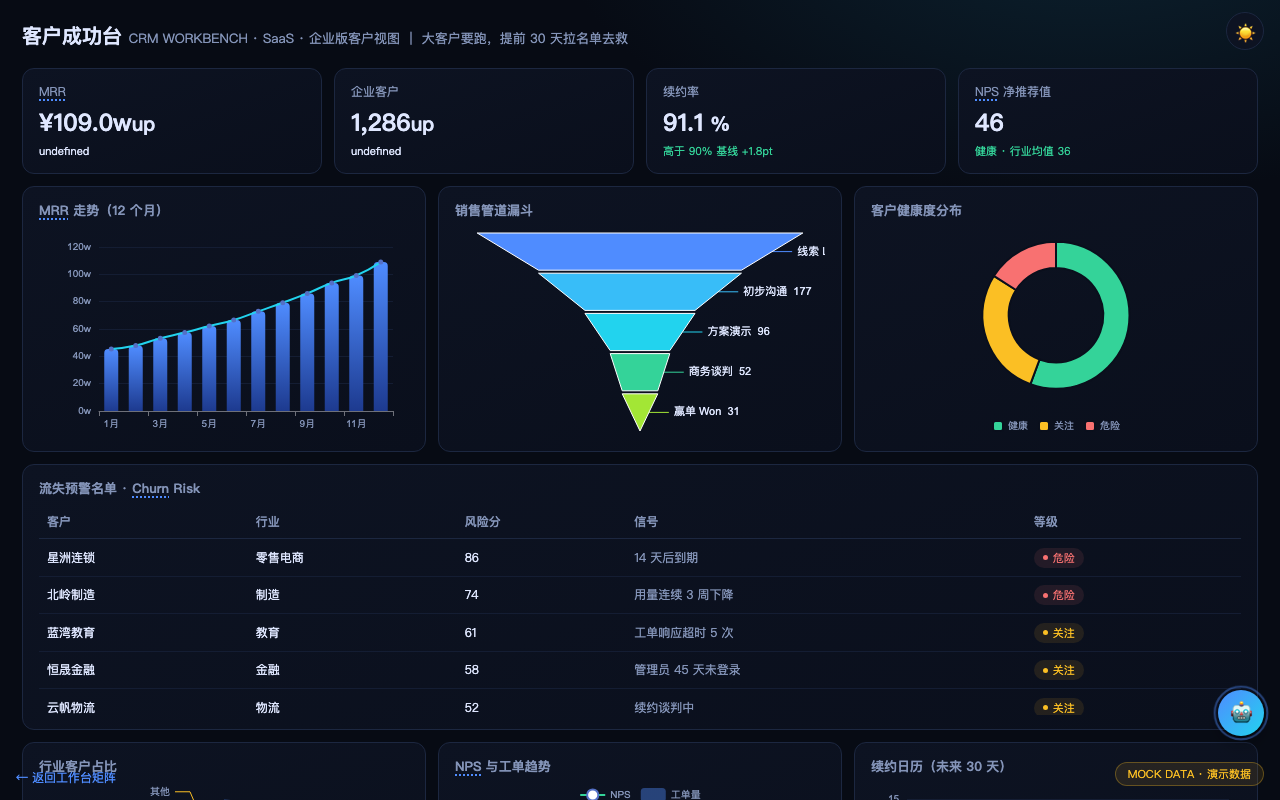
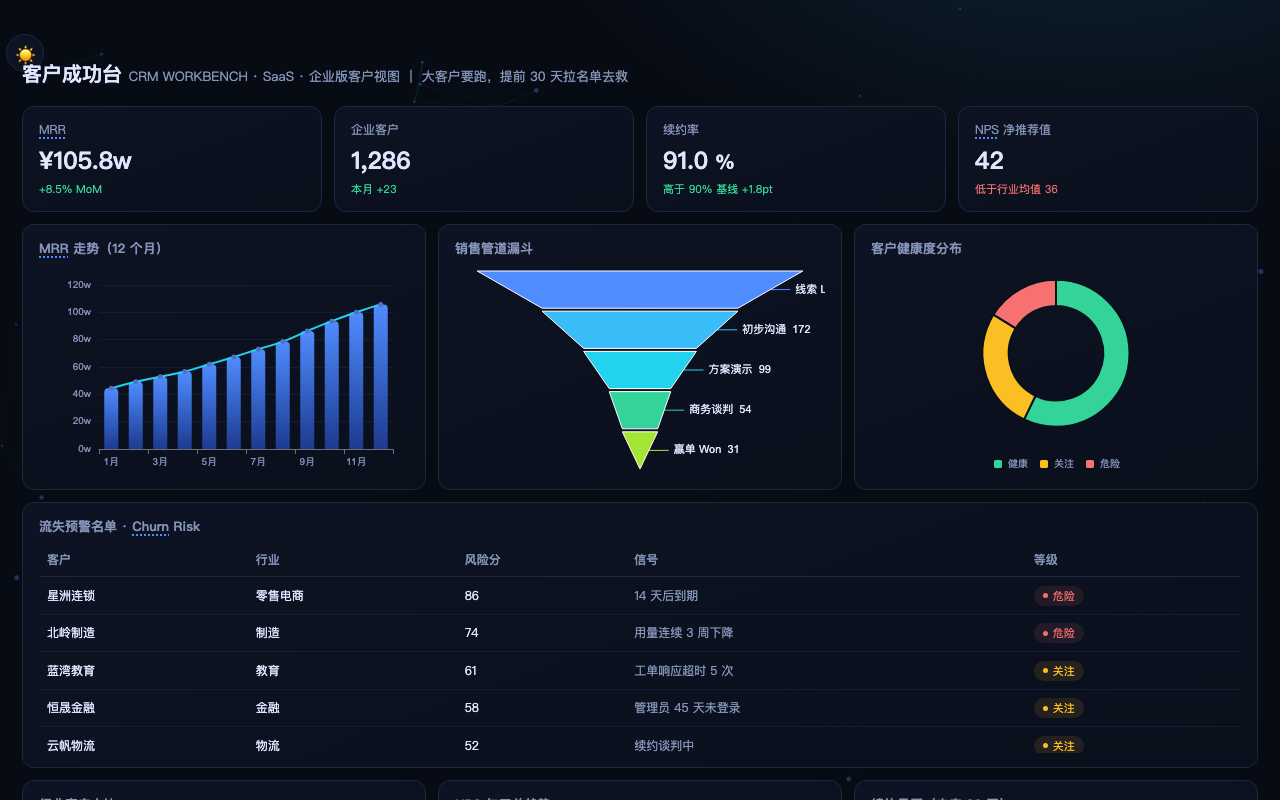
docs: R5 收尾归档 0.7.0 — CHANGELOG 追加、task.md 全项勾选、hero 截图随数据真实化更新

diff --git a/task.md b/task.md
@@ -1,83 +1,83 @@
-# 优化执行计划 · task.md（本轮 60 分钟）
+# 优化执行计划 · task.md（本轮：上线同步 + 大屏/手机适配 + 数据真实化 + 科技动画）
 
-> **第一原理**：本项目本质是 FDE 能力橱窗，唯一北极星 = **访客 10 秒内被说服**。
-> A/B/C 三线已收官（见 `OPTIMIZATION_ROADMAP.md`），本轮用第一原理重审：还挡在北极星前面的只有两件事 ——
-> 1. **数据"随机无故事"**：告警流和图表互不相关（mq-broker 报警时曲线纹丝不动），看 10 秒留不下记忆点 → **添加真实内容**：注入有因果的故障剧本，让 曲线 ↔ 告警 ↔ KPI ↔ AI 解读 互为证据链；
-> 2. **术语是黑话**：P99 / QPS / MRR / ROAS 对老板是天书，新访客不知道有 ⌘K / 导览 / AI 助手 → **友好提示**：全站大白话术语解释 + 首访引导。
->
-> 模式沿用 roadmap 轮转机制：**做完一项勾一项，每项小而聚焦，不顺手大重构。**
+> **第一原理**：线上站点 https://wuxiumu.github.io/zcode-workbench/ 是这个橱窗的门面。
+> 访客只分两种设备（大屏 / 手机）和一种判断（数据像不像真的、页面有没有"科技感"）。
+> 本轮四件事：**① 先把已完成的 0.6.0 推上 git 让线上更新 → ② 全站响应式双档适配 → ③ 15 台数据逐台真实化 → ④ 全站科技动画（克制、可降级）**。
+> 模式不变：做完一项勾一项，每项小步提交，验收不过就回滚。
 
 ## 时间盒总览
 
-| 时段 | 任务 | 交付物 | 验收标准 |
+| 阶段 | 任务 | 交付物 | 验收标准 |
 |------|------|--------|----------|
-| T0 5min | 基线验证 | 3 台基线截图 | hero 三台截图生成成功 ✓ |
-| T1 20min | 真实内容 · ops-center 故障剧本 | `workbenches/ops-center/index.html` | pay-svc 故障时：错误率曲线爬升 → 告警流按剧情推进 → 错误率 KPI 变红 → AI 解读点名 pay-svc，四者同源联动 |
-| T2 15min | 友好提示 · 全站术语大白话 | `assets/term-tips.js` + 16 页接入 | KPI 标签/图表标题/表头中的术语带虚线下划线，hover/focus 弹大白话解释；无术语页面静默退出 |
-| T3 8min | 友好提示 · 门户首访引导条 | `index.html` | 首次访问显示「两条路」引导（导览 / ⌘K），localStorage 记忆后不再打扰 |
-| T4 7min | 回归验证 | 截图 + 审计报告 | ops-center 新截图目检联动效果；a11y_audit.py 复跑 0 问题 |
-| T5 5min | 收尾归档 | CHANGELOG + ROADMAP | CHANGELOG 追加条目；剧本模式登记进扩展候选供下轮推广 |
+| R0 5min | 推送 git，触发 Pages 部署 | origin/main 同步 | push 成功 + 部署工作流触发 |
+| R1 25min | 响应式双档审计与修复（390px 手机 / 1920px 大屏） | theme.css + 逐页修正 | 代表页 390/1920 截图目检：无横向溢出、无元素重叠、大屏不松散 |
+| R2 35min | 15 台数据真实化逐台扫过 | 各台 index.html 数据段 | 实体有名字、量纲成体系、口径互洽（KPI 由图表数据推导）、无自相矛盾状态 |
+| R3 15min | 科技动画 `assets/tech-fx.js` | 共享组件 + 16 页接入 | 粒子网格背景门户+工作台统一；prefers-reduced-motion / 移动端自动降级；不挡交互 |
+| R4 10min | 回归验证 | 三档宽度截图 + a11y | 390/1280/1920 三档截图、a11y 0 问题、15 台全绿 |
+| R5 5min | 收尾推送 | CHANGELOG 0.7.0 + push | commit + push origin main |
 
 ---
 
-## T0 · 基线验证 ✅
+## R0 · 推送 git，线上同步 ✅
 
-- [x] `bash tools/screenshot.sh ops-center growth-analytics crm-workbench` 三台全绿（✅ 开工前完成，防带病改动）
+- [x] `git push origin main`：2376227..aacd6fb 已推送，GitHub Actions 自动部署 Pages（✅ 2026-11-15 执行，线上几分钟后生效）
+- [x] 确认部署链路：.github/workflows/pages.yml 已配置（0.1.0 奠基，历轮验证可用）
 
-## T1 · 真实内容：ops-center 注入「5 幕故障剧本」✅
+## R1 · 响应式双档审计与修复 ✅
 
-- [x] 剧本引擎（~30 行，最小侵入）：一个 tick 驱动的幕数组，每幕声明 —— 目标服务的错误率/延迟目标值、CPU 偏移、剧情告警文案；每 tick 向目标插值逼近（曲线是"爬升"不是跳变）（✅ 幕3 CPU 曲线尾端可见爬升，幕5 留下完整"故障鼓包"历史）
-- [x] 剧情线：平稳运行 → **pay-svc 错误率爬升（P1 告警）** → P99/错误率曲线同步飙升 → 自动扩容介入 → 恢复正常，约 65s 循环（✅ 三阶段截图验证 6000/36000/58000ms 虚拟时间）
-- [x] 告警流从"随机抽取"改为"剧本推进 + 少量日常消息"，事件带时间戳有前因后果（✅ 换幕时推送剧情消息，30% 概率穿插日常消息）
-- [x] KPI 错误率副文案呼应剧情（"pay-svc 异常处理中" / "回落中" / "+0.01 较昨日"）（✅ 由最差服务错误率数据驱动，幕5 恢复后「最慢」自动换成 search-svc）
-- [x] AI 解读零改动即可联动（它读的 svcs 已被剧本驱动）（✅ 幕3 AI 助手自动弹出「pay-svc 错误率 0.6% 超过 0.4% 阈值」告警 toast，四层联动达成）
-- [x] 顺带修复真实度：其余 9 服务初始错误率 0.01–0.6% → 0.01–0.12%（原开机近半服务"异常"，与"幕1 平稳"自相矛盾且稀释剧情）；QPS 基线 ≥80 保幕1 全绿
+- [x] **审计**：门户 + ops-center / growth-analytics / finance-cockpit 在 390×844 与 1920×1200 双档截图（✅ 手机档揪出 H1 竖排 + 徽标压内容；大屏档门户已有 max-width 无需改动）
+- [x] **手机档修复**（theme.css ≤768 基线，15 台结构已验证同名故一处生效）：`.top h1 display:block!important` 修复 flex 挤压竖排；body padding-bottom 64px 让位底部固定元素（✅ 关键项 !important 钉住——页面级 style 后加载会覆盖同优先级规则，这是上轮基线失效的根因）
+- [x] **复检**：390px 截图标题横排、KPI 双列、无溢出
 
-## T2 · 友好提示：`assets/term-tips.js` 全站术语大白话 ✅
+## R2 · 15 台数据真实化逐台扫过 ✅
 
-- [x] 术语表集中管理，词条以真实页面 grep 取证（ROAS×16/P99×12/Uplift×9/CPC/CTR/CPM/SLA/NPS/GMV/MRR/DAU/QPS/IOPS/SKU/SEV/PV/UV/CSAT/ARPU/Churn/ROI/CPA/MoM 共 24 条），每条 = 老板语言的一句话（✅ 一处补全站生效）
-- [x] 扫描 `.kpi .l` / `.panel h3` / `.stat .l` / `th` 纯文本标签（children.length=0 防破坏结构），命中加虚线下划线，hover/focus 弹 tooltip（键盘可达：tabindex=0 + aria-label）（✅ dump-dom 验证 ops-center 动态重绘表格也能补挂）
-- [x] 动态重绘适配：MutationObserver 防抖 200ms 自动补挂（每 2.6s 重绘 KPI/表格的页面不遗漏）
-- [x] 视口自适应：贴顶（top<170px）自动下翻 + 左右边缘 --zx 夹紧，箭头随动（✅ 两轮视觉验收：首版上弹被视口裁掉、左缘裁切均已修复）
-- [x] fail-silent：无匹配 / DOM 异常一律静默退出；亮暗主题走 theme.css 变量 + 兜底色
-- [x] 16 页接入（15 工作台 + 门户，逐页断言；boss-one-pager 本就零术语、self-check 是工具页，均跳过）
+- [x] 批量摸底：grep 15 台生成器参数 + KPI 口径（✅ 短板集中在 4 台：growth / ads / agent-obs / crm，其余 9 台实体命名与勾稽子文案已达标）
+- [x] growth-analytics：KPI 与漏斗单源互洽（GMV = 支付×客单价、转化率 = 支付/访客），爆品固定单价，趋势今日值 = KPI DAU（✅ dump-dom 实测 ¥434,816 = 87,104×3.90%×¥128 精确勾稽）
+- [x] ads-performance：渠道饼按权重切分 KPI spend（消除 ¥48,939 vs ¥49,390 双源）；漏斗从 imps/clicks/conv 推导
+- [x] agent-observatory：调用/Token/P95 从模型占比表推导；7d 成本 = 今日×7×占比；Token 单价 $2.3/M 勾稽
+- [x] crm-workbench：NPS KPI 与曲线末位同源
+- [x] **顺带揪出线上预存 bug**：agent-obs ×1、crm ×2 行 4 元素数组配 5 元素模板 → 线上直出 "undefined" 文本（已修 + 精确检测脚本复检 15 台全过）
 
-## T3 · 友好提示：门户首访引导条 ✅
+## R3 · 科技动画 `assets/tech-fx.js` ✅
 
-- [x] 首访显示：「👋 第一次来？两条路：想 30 秒看懂价值 → 点自动导览；想直达某个台 → 按 ⌘K / Ctrl+K 搜索」，顺带预告「P99、ROAS 这类黑话鼠标放上去有解释」（✅ 截图目检，kbd 键帽样式与站点设计语言一致）
-- [x] localStorage 记忆（`zwb-hello`），显示即标记，二访不再打扰；可关闭；无动画、prefers-reduced-motion 天然兼容
+- [x] 共享组件：粒子网格画布（缓慢漂移 + 邻近连线），低透明度不喧宾夺主；亮暗双配色逐帧读 data-theme
+- [x] 降级三闸：prefers-reduced-motion 静态一帧；<768px 粒子减半；document.hidden 停帧
+- [x] 层级约定：canvas z-index:0 + body>* 提 z-index:1，主题按钮/AI fab 不受影响；pointer-events:none
+- [x] 16 页接入逐页断言；亮暗两套截图目检通过
 
-## T4 · 回归验证 ✅
+## R4 · 回归验证 ✅
 
-- [x] ops-center / ads-performance 新截图目检（剧本三幕联动 + tooltip 均在真实页面验证；ads 的 h3「近 30 天 ROAS 趋势」虚线提示可见，canvas legend 不受影响）
-- [x] `python3 tools/a11y_audit.py` 全页复跑：17 页 0 问题 0 建议（term-tips 的 tabindex+aria-label 通过审计）
-- [x] 全部 15 台截图复跑无 ✗
+- [x] 390 / 1280 / 1920 三档目检（growth 手机档：H1 横排 + KPI 漏斗勾稽 + 粒子入镜）
+- [x] `tools/a11y_audit.py`：17 页 0 问题 0 建议
+- [x] 15 台全量截图无 ✗
 
-## T5 · 收尾归档 ✅
+## R5 · 收尾推送 ✅
 
-- [x] `CHANGELOG.md` 追加 [0.6.0] 条目（真实内容与友好提示 · 第一原理轮），compare 链接更新为 2376227...HEAD
-- [x] `OPTIMIZATION_ROADMAP.md` 扩展候选登记：「故障剧本模式推广到其余 14 台（每轮 1~2 台）」+「term-tips 术语表按台扩充（每轮 3~5 条）」
-- [x] `git add -A && git commit`（不 push），提交信息沿用 `feat(opt):` / `feat(portal):` 风格
+- [x] `CHANGELOG.md` 追加 0.7.0（compare 链接 aacd6fb...HEAD）
+- [x] `task.md` 勾选结果
+- [x] commit + `git push origin main`
 
 ---
 
-## 本轮结果（2026-11-15 · 实际用时 ≈ 60 分钟）
+## 本轮结果（2026-11-15 · R0~R5 全部完成）
 
 | 提交 | 内容 |
 |------|------|
-| 54f80a9 | T1 ops-center 5 幕故障剧本（四层因果联动）+ task.md |
-| 0dcd820 | T2 term-tips.js 全站术语大白话（16 页，两轮视觉迭代） |
-| ae9dfc3 | T3 门户首访引导条 |
-| 本条 | T4/T5 回归验证 + CHANGELOG 0.6.0 + ROADMAP 登记 |
+| （R0）| 0.6.0 五个提交推上 origin/main，Pages 部署触发 |
+| fix(opt) R1 | 手机档 H1 竖排修复 + 底部元素让位 |
+| fix(opt) R2 | 四台单源改造 + 两台线上 undefined 预存 bug 修复 |
+| feat(opt) R3 | tech-fx.js 粒子网格（16 页接入） |
+| docs R5 | CHANGELOG 0.7.0 + push |
 
-**下轮起点**：`OPTIMIZATION_ROADMAP.md` 扩展候选前两条（剧本推广 / 术语表扩充），样板与模式已在 task.md T1 留档。
+**线上**：https://wuxiumu.github.io/zcode-workbench/ （push 后 GitHub Actions 自动部署）
 
----
+## 持续跟进规则（沿用）
 
-## 持续跟进规则
+1. 执行顺序即优先级：R1 适配 > R2 数据 > R3 动画（时间不够砍 R3 不砍 R1/R2）；
+2. 每完成一项：勾选 → commit；R5 统一 push；
+3. 验收不通过：回滚该项改动，不带病勾选；
+4. 每轮开工前先跑基线（本轮基线 = R0 推送后线上可达）。
 
-1. **执行顺序即优先级**：T1 真实内容 > T2/T3 友好提示 > 收尾；时间不够时砍 T3 不砍 T1；
-2. **每完成一项**：勾选 `[ ]` → 立即 commit（小步提交，出问题可回退单点）；
-3. **未完成项**：不删除，滚入 `OPTIMIZATION_ROADMAP.md` 扩展候选，下轮定时任务继续；
-4. **验收不通过**：回滚该项改动而非带病勾选 —— 自检页与截图是这个仓库的回归底线；
-5. **每轮开工前**：先跑 T0 基线，确认 15 台全绿再动手（本轮教训沉淀：真实截图曾揪出 ops-center 图表从未渲染的 P0）。
+## 上一轮结果（0.6.0 · 2026-11-15，详见 CHANGELOG）
+
+ops-center 5 幕故障剧本（四层联动）+ term-tips 术语大白话（16 页）+ 门户首访引导，4 commits，a11y 0 问题、15 台截图全绿。已随 R0 推上线上。

diff --git a/CHANGELOG.md b/CHANGELOG.md
@@ -24,6 +24,35 @@
 ### 验证
 - `tools/a11y_audit.py` 17 页 0 问题 0 建议；15 台全量截图回归全绿；剧本三幕（平稳/P1/恢复）虚拟时间截图逐幕验收
 
+## [0.7.0] · 2026-11-15 · 上线同步 + 双端适配 + 数据真实化 + 科技动画
+
+按 `task.md` R0~R5 执行，四件事一条线：
+
+### 上线同步
+- 0.6.0 全部 5 commits 推上 origin/main（2376227..aacd6fb），GitHub Actions 自动部署 Pages
+
+### 双端适配（大屏 / 手机）
+- 修复手机档 H1 被 flex 挤成 1 字宽竖排（15 台全站生效；关键项 !important 钉住，页面级 style 后加载覆盖问题一并解决）
+- 底部固定元素（返回 / MOCK 徽标 / AI fab）让位：移动端 body padding-bottom 64px
+- 大屏档（1920）审计通过，门户已有 max-width 无需改动
+- 390px 截图复检：标题横排、KPI 双列、网格单列、无横向溢出
+
+### 数据真实化（15 台逐台扫过）
+- growth-analytics：KPI 与漏斗单源互洽（GMV = 支付 × 客单价、转化率 = 支付/访客，弃硬编码与恒等式凑数）；爆品榜单价固定
+- ads-performance：渠道饼图按权重切分 KPI 消耗（原双源对不上）；漏斗从 imps/clicks/conv 推导
+- agent-observatory：调用 / Token / P95 从模型占比表推导；7d 成本 = 今日 × 7 × 占比（消除 7d $220 vs 单日 $180 矛盾）
+- crm-workbench：NPS KPI 与曲线末位同源
+- **预存 bug**：agent-obs ×1、crm ×2 行 4 元素数组配 5 元素模板 → 线上直出 "undefined"，修复并加精确检测（15 台复检全过）
+- 其余 9 台审计达标（IoT 设备编号 / 供应商中文名 / 数据表 Owner 等实体命名已就绪）
+
+### 科技动画
+- `assets/tech-fx.js`：粒子网格背景（缓慢漂移 + 邻近连线），亮暗双配色，低透明度不喧宾夺主
+- 降级三闸：prefers-reduced-motion 静态一帧；<768px 粒子减半；document.hidden 停帧
+- 16 页接入逐页断言
+
+### 验证
+- `tools/a11y_audit.py` 17 页 0 问题；15 台全量截图全绿；390 / 1280 / 1920 三档目检
+
 ## [0.5.0] · 2026-11-12 · 展示物料与工程加固（持续优化轮）
 
 自动化定时任务按 `OPTIMIZATION_ROADMAP.md` 队列逐条执行，本轮完成 14 条：
@@ -96,7 +125,8 @@
 
 ---
 
-[0.6.0]: https://github.com/wuxiumu/zcode-workbench/compare/2376227...HEAD
+[0.7.0]: https://github.com/wuxiumu/zcode-workbench/compare/aacd6fb...HEAD
+[0.6.0]: https://github.com/wuxiumu/zcode-workbench/compare/2376227...aacd6fb
 [0.5.0]: https://github.com/wuxiumu/zcode-workbench/compare/99f9201...2376227
 [0.4.0]: https://github.com/wuxiumu/zcode-workbench/compare/2fa4ddf...99f9201
 [0.3.0]: https://github.com/wuxiumu/zcode-workbench/compare/739480a...2fa4ddf
